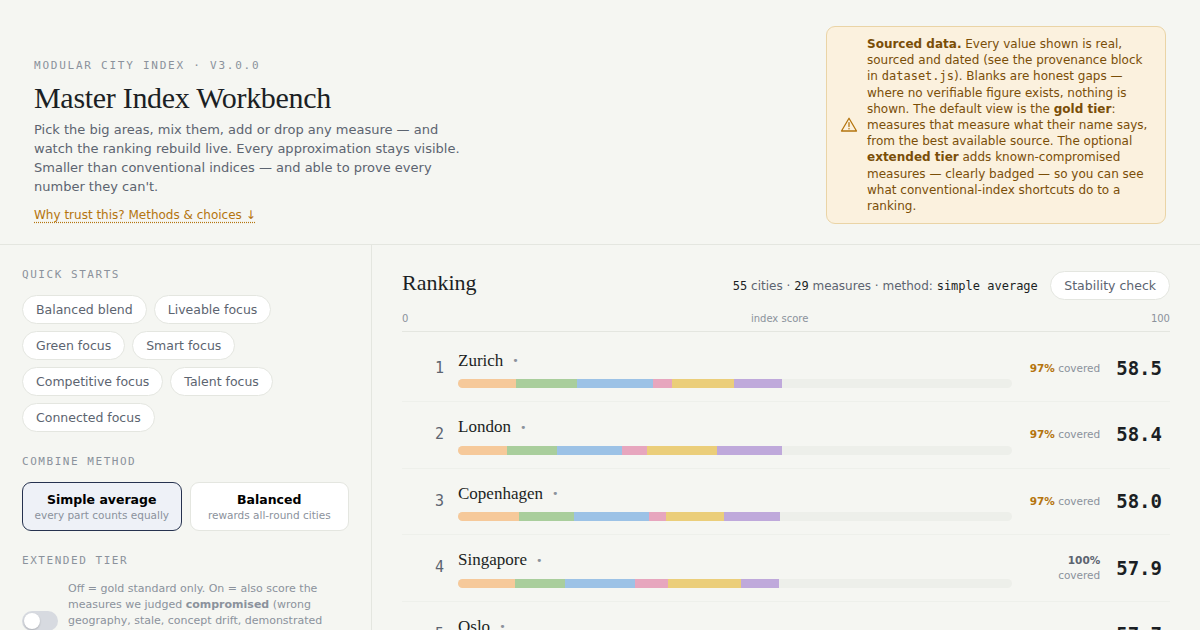
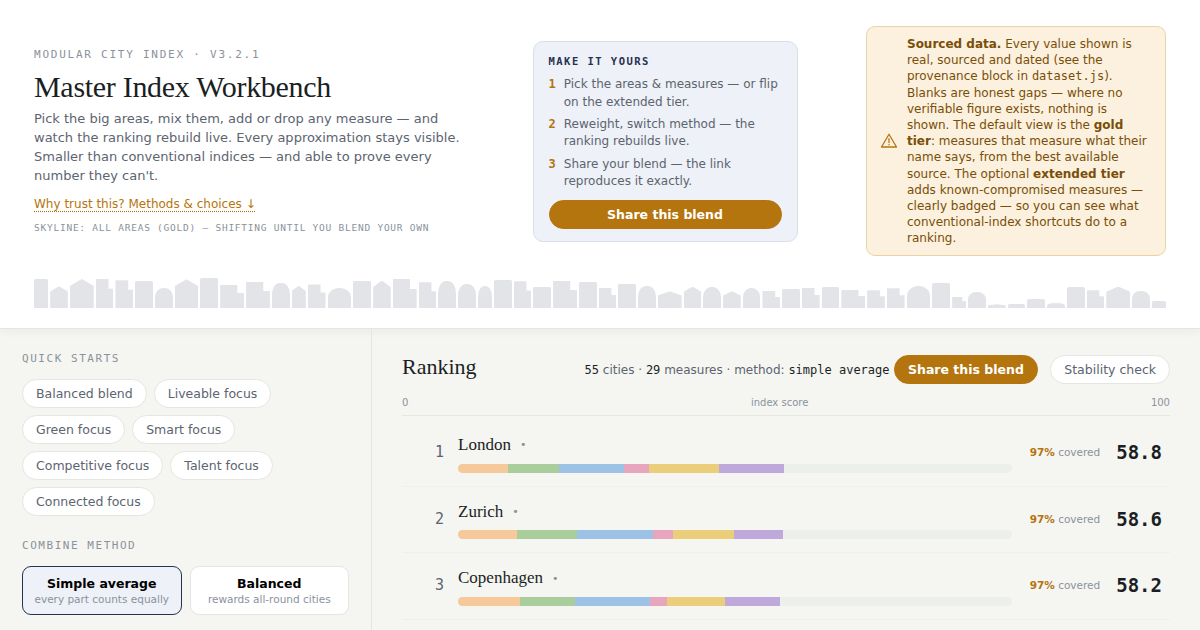
Consistency sweep after v3.2.1: prose, project memory, social card
Cross-artifact audit after the LIV-01 releases found four stale spots:

- index.html rules bullet and Known limits now name the mixed-geography
  reality (the homicide measure's per-city units, and that ranks can
  shift on boundary choice alone) alongside the existing compromises.
- README rule 3 gains 'mixed geographies' in the badged-compromise list.
- CLAUDE.md: status brought to v3.2.1; the decision records (PHASE3.md,
  ROSTER.md, LIV01.md) and papers.html added to the Files map with their
  maintenance rules.
- social-card.png regenerated from the current interface: the old card
  predated both data releases and showed a superseded ranking; the new
  one shows v3.2.1 with London leading.

No data or score changes; integrity passes.

Claude-Session: https://claude.ai/code/session_015TSj46oTraFzrym9nYhBYf

diff --git a/index.html b/index.html
@@ -403,8 +403,8 @@ button{font-family:inherit}
         <li><b>Every value carries its receipt.</b> Source, reference year, extraction method and caveats are recorded
         per value and shown in the click-through popover. Reference years differ across cities within a measure;
         we show the year rather than pretend otherwise.</li>
-        <li><b>Compromises are flagged, never hidden.</b> Metro-level stand-ins, country proxies, crowd-sourced and
-        modelled figures are all badged in the table, and the amber line above the ranking counts them.</li>
+        <li><b>Compromises are flagged, never hidden.</b> Metro-level stand-ins, country proxies, mixed geographies,
+        crowd-sourced and modelled figures are all badged in the table, and the amber line above the ranking counts them.</li>
         <li><b>Missing data costs visibility, not rank.</b> A city missing a measure has that measure dropped from its
         own score and its coverage % reduced &mdash; it is never punished with an assumed zero.</li>
       </ul>
@@ -487,9 +487,12 @@ button{font-family:inherit}
       <h4>Known limits</h4>
       <p>Reference years are mixed within measures (each value shows its own, and a value whose reference year runs
       4+ years behind its measure's typical year wears a small amber year-chip in the breakdown). Some cities carry state- or
-      province-level stand-ins where nothing finer is published. A few sources are crowd-maintained or modelled and
-      are flagged as such. Definitions genuinely differ for waste recycling across cities &mdash; the caveats say so
-      bluntly. When a better source appears, the value is upgraded and the provenance updated.</p>
+      province-level stand-ins where nothing finer is published. One measure (homicide) is city-level but MIXED in
+      geography &mdash; police-agency city proper in the US, census metro areas in Canada, province-level for a few European
+      rows &mdash; because sources publish nothing else; each receipt names its unit, and ranks can shift on boundary choice
+      alone. A few sources are crowd-maintained or modelled and are flagged as such. Definitions genuinely differ for waste
+      recycling across cities &mdash; the caveats say so bluntly. When a better source appears, the value is upgraded and
+      the provenance updated.</p>
 
       <h4>Data &amp; reuse</h4>
       <p><b>Download:</b> <a href="dataset.csv" download>dataset.csv</a> (one row per city &times; measure, with

diff --git a/CLAUDE.md b/CLAUDE.md
@@ -33,9 +33,21 @@ Live at: https://kr48vr.github.io/master-of-all-indices/
 - `SOURCING.md`, `README.md`, `LICENSE.md`, `CITATION.cff` — sourcing plan,
   public docs, licensing (code MIT / data CC BY-NC-SA 4.0), citation metadata.
   Bump `meta.version` in dataset.js AND `CITATION.cff` together on release.
+- `PHASE3.md`, `ROSTER.md`, `LIV01.md` — the decision records: Phase-3
+  sourcing verdicts (D1-D11), city-roster selection, and the LIV-01
+  city-level homicide study with decisions D-L1..L6. Per-value receipts
+  link to LIV01.md; treat all three as append-only history.
+- `papers.html` — The Workbench Papers (working paper, executive brief, QA
+  ledger, King & AI collaboration record). Version-stamped: it states which
+  artifact version it describes; re-generate its Table 1 from dataset.js
+  when updating it after a data release.
 
 ## Current status
-v3.2.0: Phase 3 complete — 55 cities × 35 sourced measures in TWO TIERS.
+v3.2.1: Phase 3 complete — 55 cities × 35 sourced measures in TWO TIERS.
+(v3.2.1 = receipt-only patch: Jakarta's blank verified from the retrieved
+provincial publication (murder inseparable from negligence-causing-death),
+UAE geo-blocks doubly confirmed from the owner's own browser; no value or
+score changes.)
 (v3.2.0 = LIV-01 homicide upgraded from Country proxy to MIXED city-level:
 45 city values from Eurostat/FBI/StatCan/national sources, means of annual
 rates over up-to-3 recent years, 10 evidence-backed blanks; decisions

diff --git a/README.md b/README.md
@@ -20,7 +20,7 @@ they explain themselves.
 1. **No number is ever invented, estimated or interpolated.** Unverifiable ⇒ blank.
 2. **Every value carries its receipt** — source, year, method, caveats, per value.
 3. **Compromises are flagged, never hidden** — metro stand-ins, country proxies,
-   crowd-sourced and modelled figures are all badged in the UI.
+   mixed geographies, crowd-sourced and modelled figures are all badged in the UI.
 4. **Missing data costs visibility, not rank** — never an assumed zero.
 
 The [integrity workflow](.github/workflows/integrity.yml) fails any change that